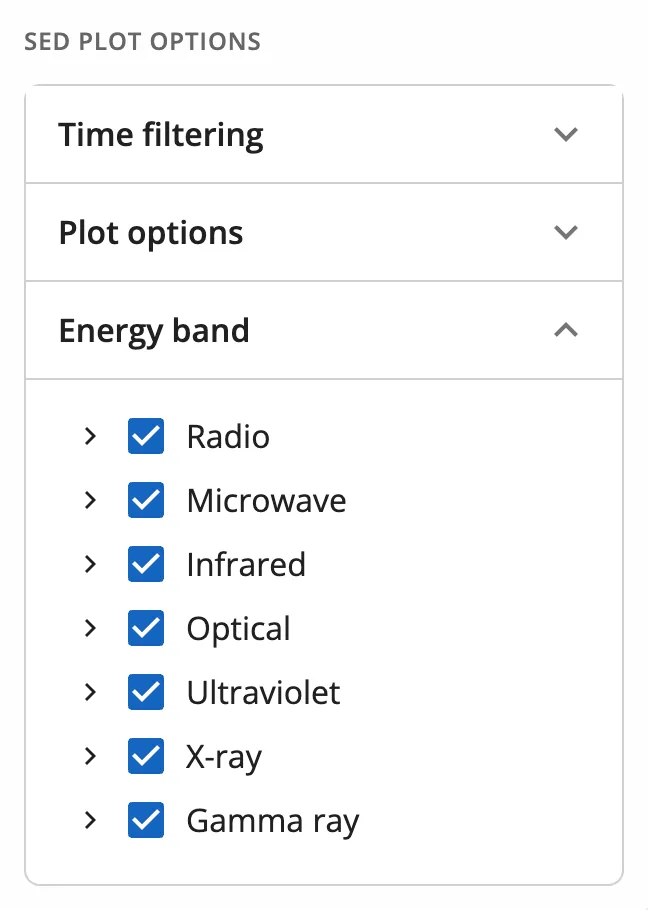
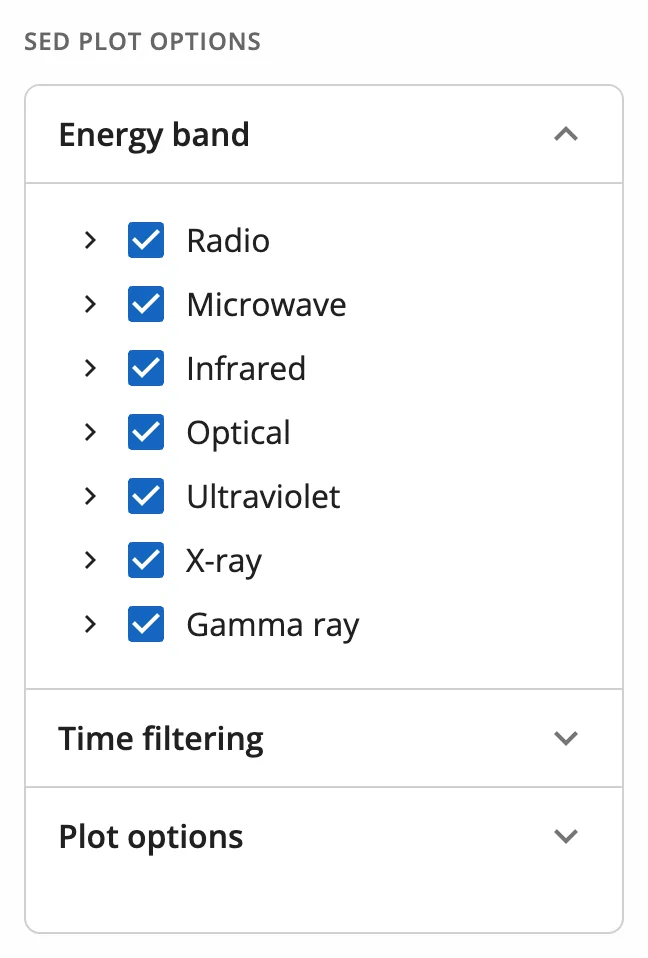
Docs: the new SED time filter and panel order
Energy band, Time filtering, Plot options; One day / Range time filter
with Undated, axis dropdowns, the date strip and t= in shared links.
Retakes the SED screenshots that show the panel.

diff --git a/docs/web/sed-data.md b/docs/web/sed-data.md
@@ -14,7 +14,7 @@ epoch of every point, and lets you explore it, filter it in time and download it
 [![The Data access section with the SED of 3C 279](img/sed-overview.webp#only-light)](img/sed-overview.webp)
 [![The Data access section with the SED of 3C 279](img/sed-overview-dark.webp#only-dark)](img/sed-overview-dark.webp)
 
-*The SED of 3C 279. Left: the SED and its tabs. Right: the source card and the SED plot options.*
+*The SED of 3C 279. Left: the SED and its tabs, with the date strip under the plot. Right: the source card and the SED plot options.*
 
 ## In short
 
@@ -100,31 +100,60 @@ The panel under the card has three sections; one is open at a time.
 
 <div class="grid" markdown>
 
+[![Energy band](img/sed-bands.webp#only-light)](img/sed-bands.webp)
+[![Energy band](img/sed-bands-dark.webp#only-dark)](img/sed-bands-dark.webp)
+
 [![Time filtering](img/sed-time.webp#only-light)](img/sed-time.webp)
 [![Time filtering](img/sed-time-dark.webp#only-dark)](img/sed-time-dark.webp)
 
 [![Plot options](img/sed-options.webp#only-light)](img/sed-options.webp)
 [![Plot options](img/sed-options-dark.webp#only-dark)](img/sed-options-dark.webp)
 
-[![Energy band](img/sed-bands.webp#only-light)](img/sed-bands.webp)
-[![Energy band](img/sed-bands-dark.webp#only-dark)](img/sed-bands-dark.webp)
-
 </div>
 
-**Time filtering** keeps only the points observed in a time window: **All time**, **One day**
-or a **Range**. Points without an observation epoch (catalogue averages) are hidden while a
-window is set, unless **Show undated catalogue values** is ticked.
+**Energy band** lists the bands (radio to gamma rays) and, inside each, the catalogues that
+returned data. Untick a band or a catalogue to hide its points.
 
-**Plot options** change the units:
+**Time filtering** keeps only the points observed in a time window. Dates are UTC days, with
+the MJD shown under each field.
+
+- **One day**: a date, with ‹ › to jump to the previous or next day with data, and
+  **± days** (0, 1, 3 or 15) to widen it.
+- **Range**: **From** and **To**, both days included.
+
+With neither picked, all points are shown; **From** and **To** then show the source's first and
+last dated days, and editing one starts a range. **Clear** returns to all time. The panel
+counts the points in the window ("8 of 24,580 points").
+
+**Undated** (with its count) is for catalogue values without an observation date. They are
+shown in all time, and hidden while a window is set unless the box is ticked.
+
+**Plot options** change the units, with a dropdown for each axis:
 
 - X axis: frequency in Hz, or energy in eV.
 - Y axis: νF(ν) in erg cm⁻² s⁻¹, TeV cm⁻² s⁻¹, Jy × Hz or W/m², dN/dE in eV⁻¹ cm⁻² s⁻¹,
   or F(ν) in Jy.
 
-**Energy band** lists the bands (radio to gamma rays) and, inside each, the catalogues that
-returned data. Untick a band or a catalogue to hide its points.
-
 The options apply to the SED tab.
+
+### The date strip
+
+Under the plot, a strip shows how many points the SED has per date. Click a bar to show its
+busiest day, or drag across the strip to pick a range. The window is shaded on the strip.
+
+### Share a link
+
+The share button in the source card copies a link to the source (on a phone it opens the
+share sheet), e.g. <https://mmdc.am/sed/mrk-421/>. The link, like the address bar, keeps the
+time filter in `t`:
+
+| `t` | Window |
+|---|---|
+| `?t=53931` | One day, MJD 53931 |
+| `?t=53931~3` | MJD 53931 ± 3 days |
+| `?t=53900-53960` | From MJD 53900 up to, not including, 53960 |
+
+For example, <https://mmdc.am/sed/mrk-421/?t=50924> opens the SED of Mrk 421 on MJD 50924.
 
 ## 4. Download the data
 
